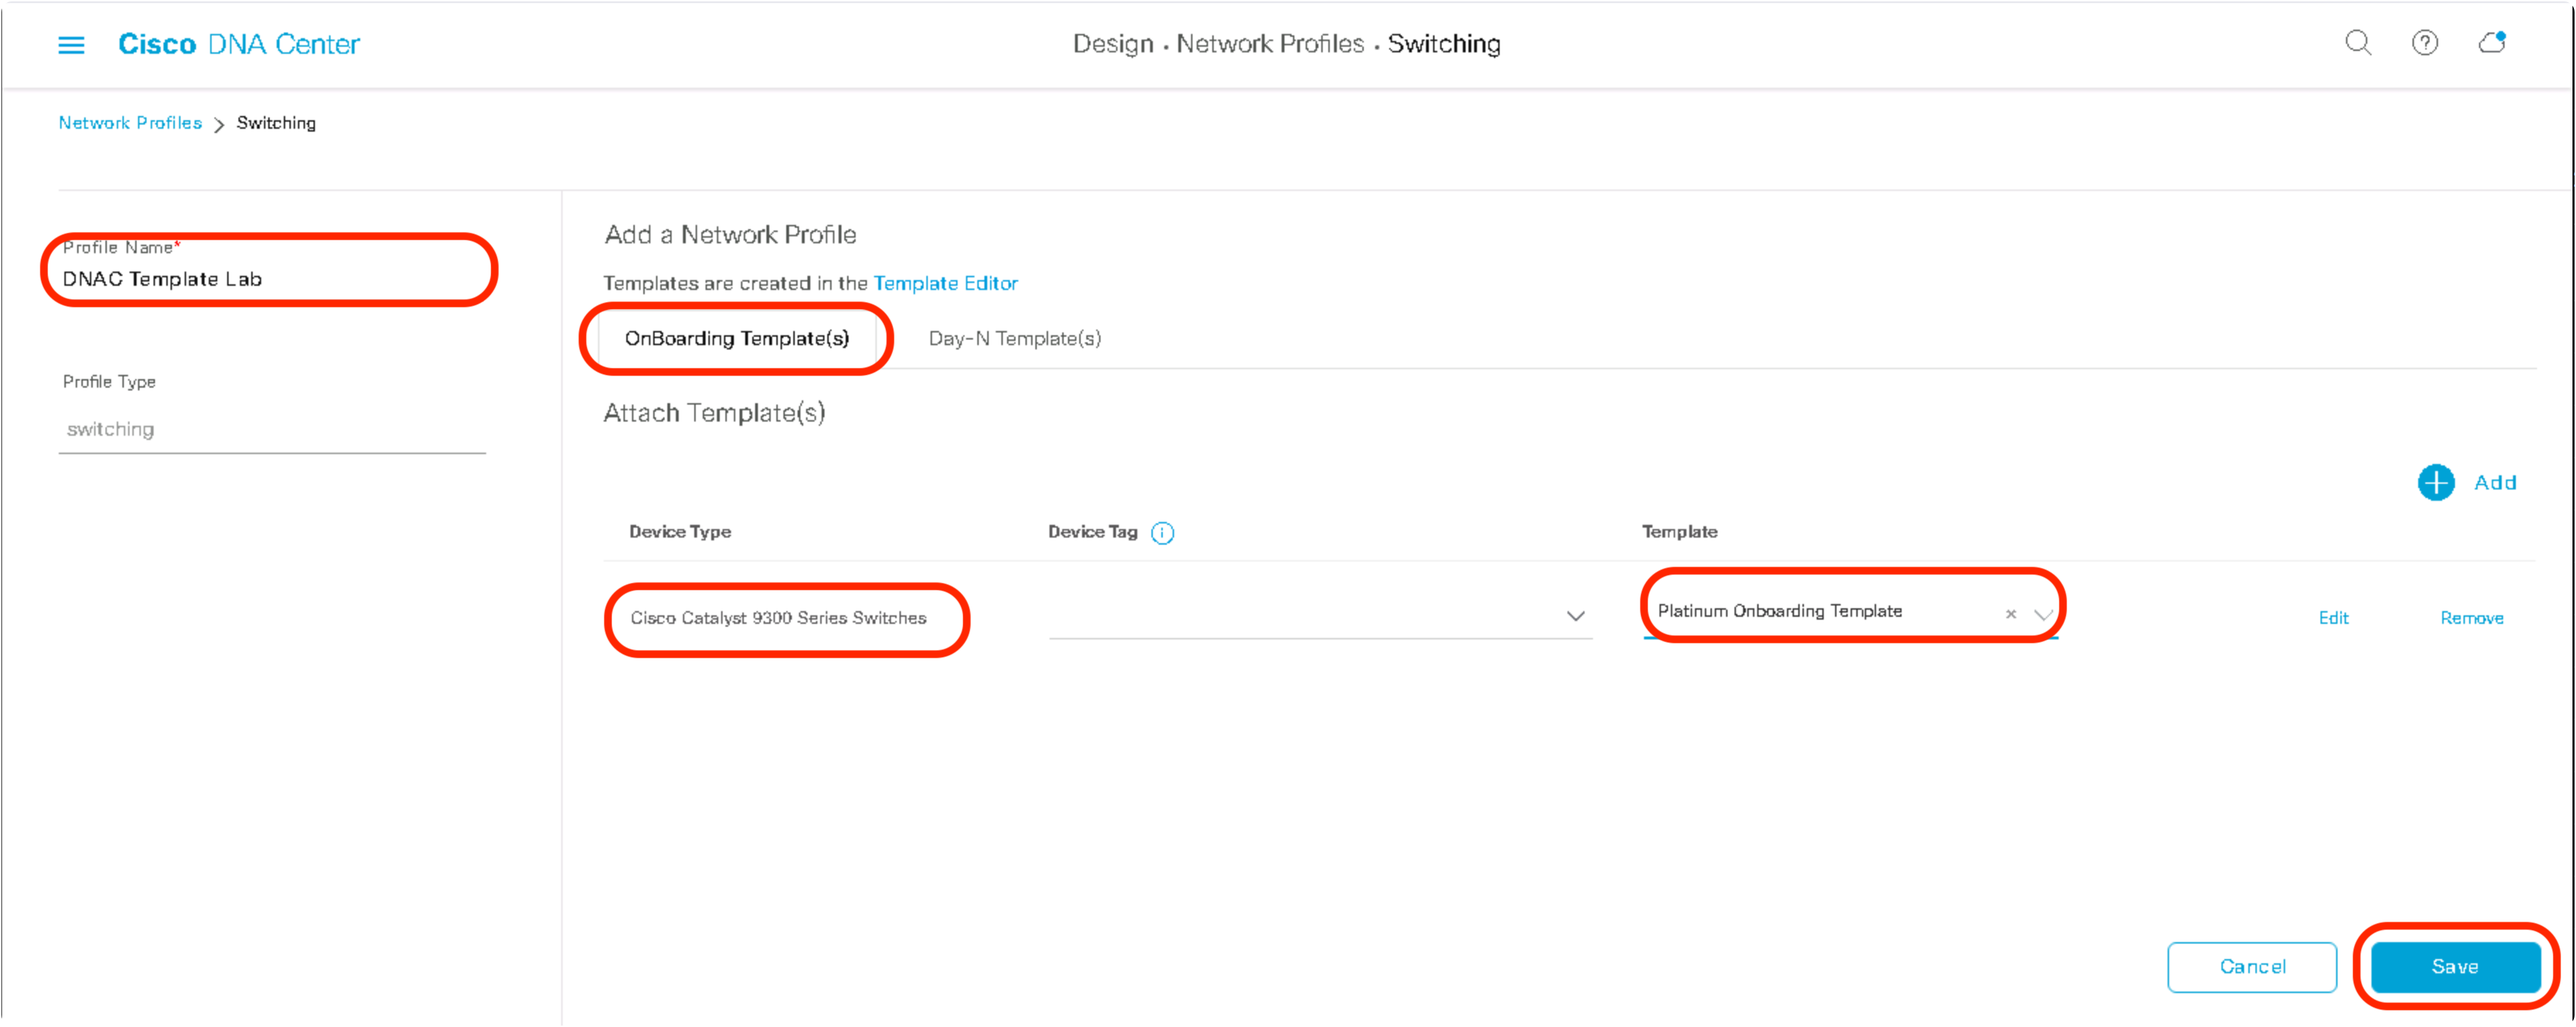
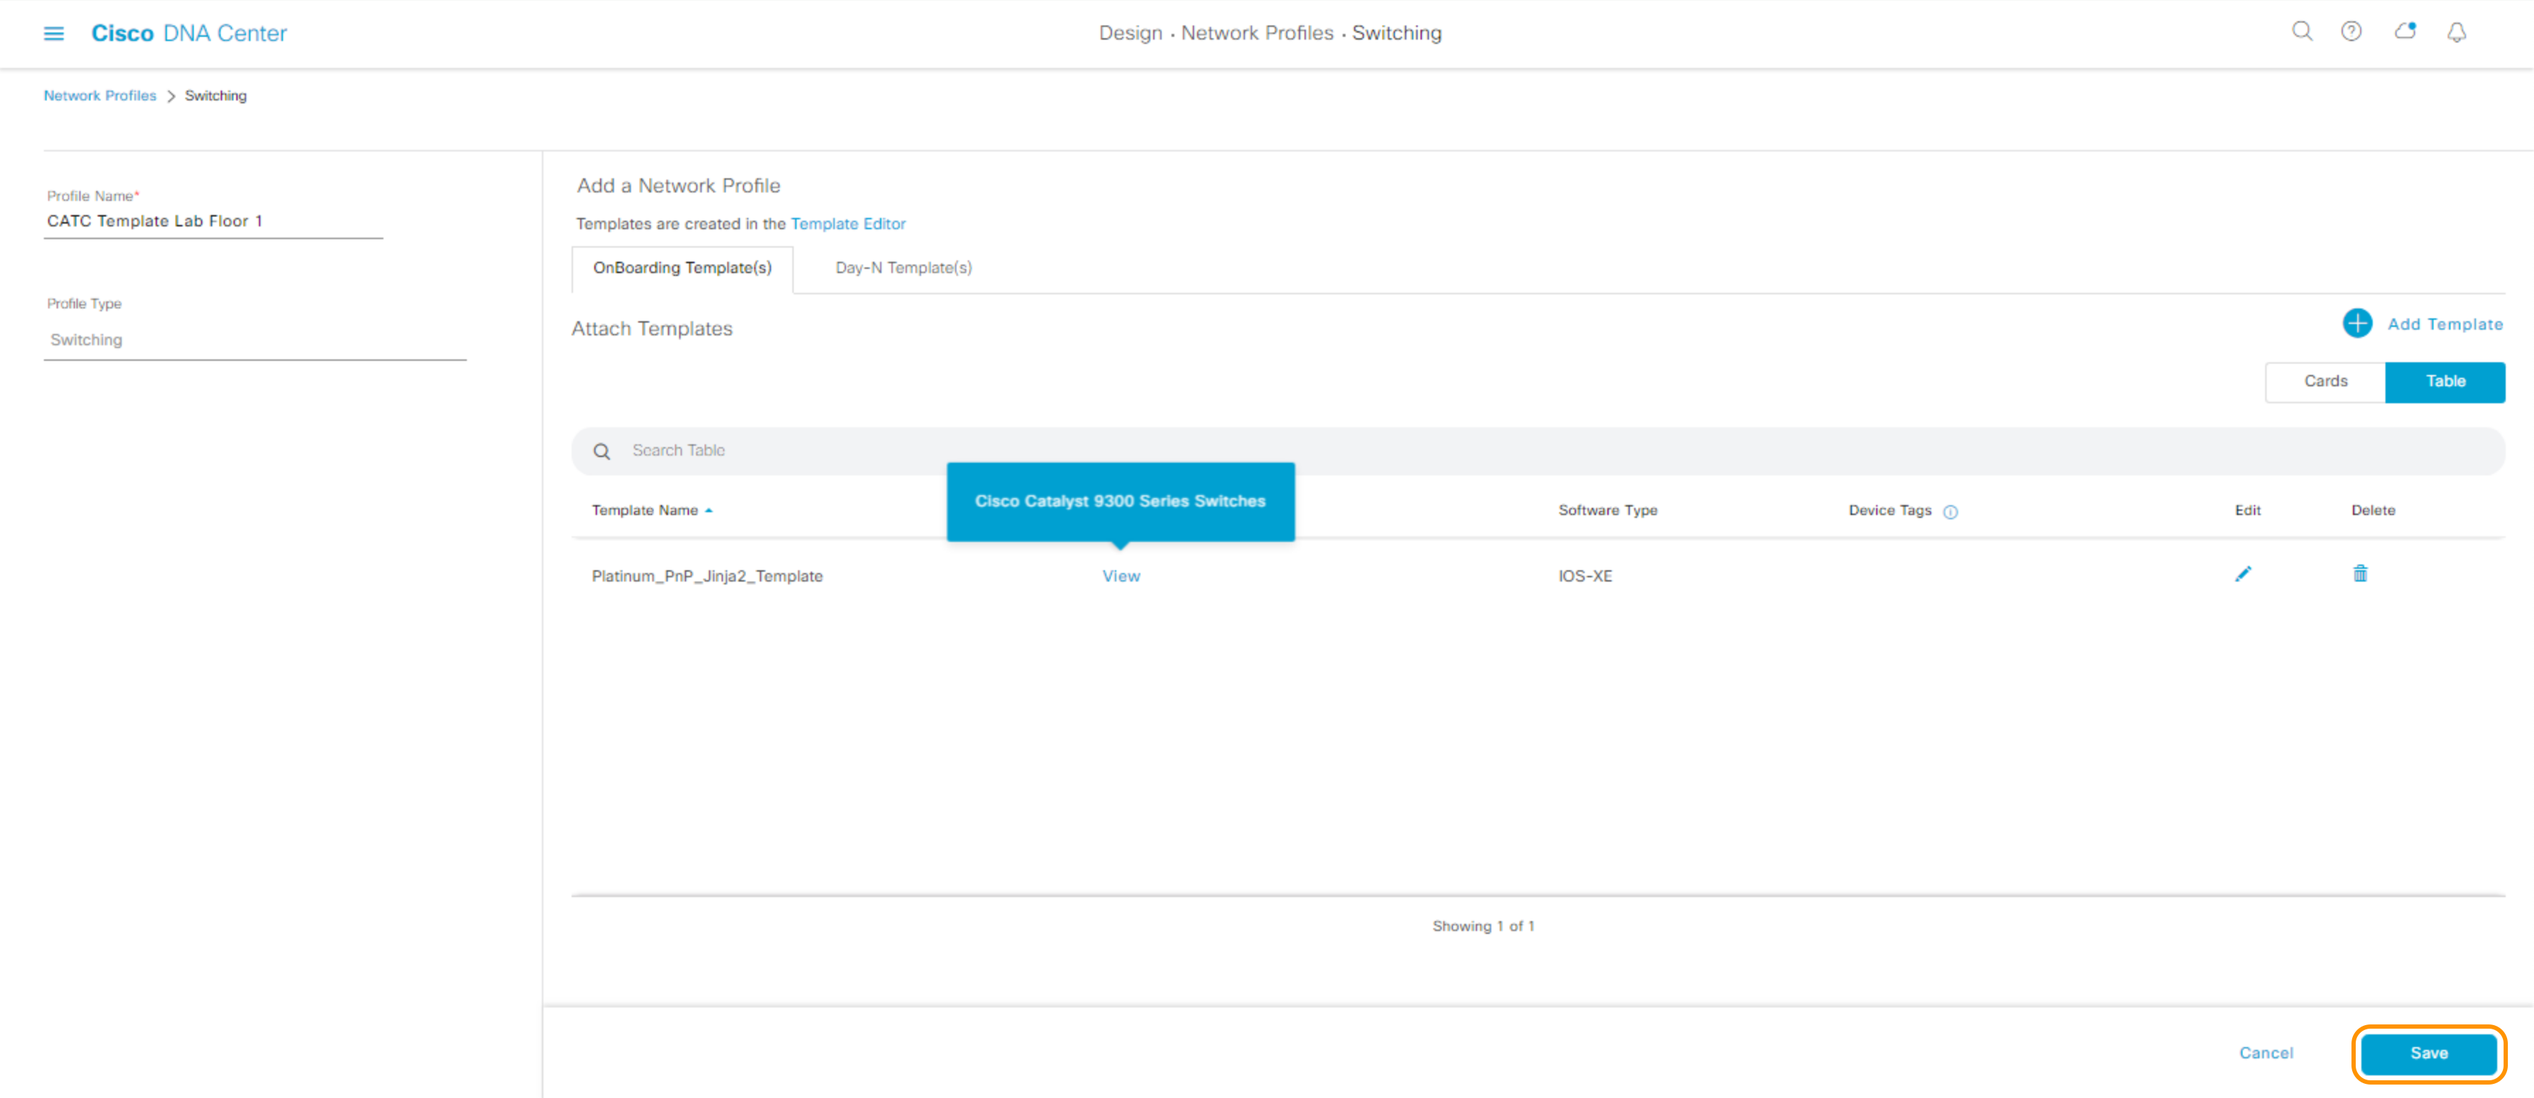
updates

diff --git a/LABS/LAB-1-Wired-Automation/module2-pnp.md b/LABS/LAB-1-Wired-Automation/module2-pnp.md
@@ -413,13 +413,16 @@ Next we need to assign the Onboarding Template to a site using the Network Profi
 
    3. Enter the following: 
 
-      1. Enter the *Profile name* 
-      2. Select the **Onboarding Template** tab and click **Add** to add a template
-      3. Select the device type by typing *9300* in the search window and select it.    
+      1. Enter the **Profile name** 
+      2. Select the **Onboarding Template** tab and click **Add Template** to add a template
 
-         ![json](./images/DNAC-ProfileSet9300.png?raw=true "Import JSON")   
+         ![json](./images/DNAC-Onboard-Add.png?raw=true "Import JSON")
 
-   4. On the Onboarding Template page select the template(s) to be used for onboarding then save the profile
+      3. Select the correct PnP Onboarding template that you imported earlier and click **Add**   
+
+         ![json](./images/DNAC-ChoosePnPTemplate.png?raw=true "Import JSON") 
+
+   4. On the Onboarding Template page confirm the template(s) to be used for onboarding then **Save** the profile
 
       ![json](./images/DNAC-ProfileComplete.png?raw=true "Import JSON")
 
@@ -427,7 +430,7 @@ Next we need to assign the Onboarding Template to a site using the Network Profi
 
       ![json](./images/DNAC-ProfileAssign.png?raw=true "Import JSON")
 
-   6. Select the sites to apply the profile within the hierarchy and click save
+   6. Select the sites to apply the profile within the hierarchy and click **Save**.
 
       ![json](./images/DNAC-ProfileAssigned.png?raw=true "Import JSON")
 
@@ -458,12 +461,15 @@ At this point you can claim the device putting it in a planned state for onboard
 
    6. Section 3 select the device **serial number** on the left and fill in the variables within the template click **next**. Please use the following:
    
-      * Hostname type `ACCESS-9300-ASW`
+      * Hostname type `c9300-1`
       * Management Vlan enter `5`
-      * IP Address `192.168.5.10`
+      * Interfaces `Gi 1/0/10, Gi1/0/11`
+      * IP Address `192.168.5.3`
       * Subnet Mask `255.255.255.0`
       * Gateway `192.168.5.1`
-      * VTP Domain `Cisco`   
+      * VTP Domain `Cisco` ***(if required)***
+
+      > **Note:** Leave the rest of the settings default 
 
         ![json](./images/DNAC-TemplateClaim.png?raw=true "Import JSON")
 
